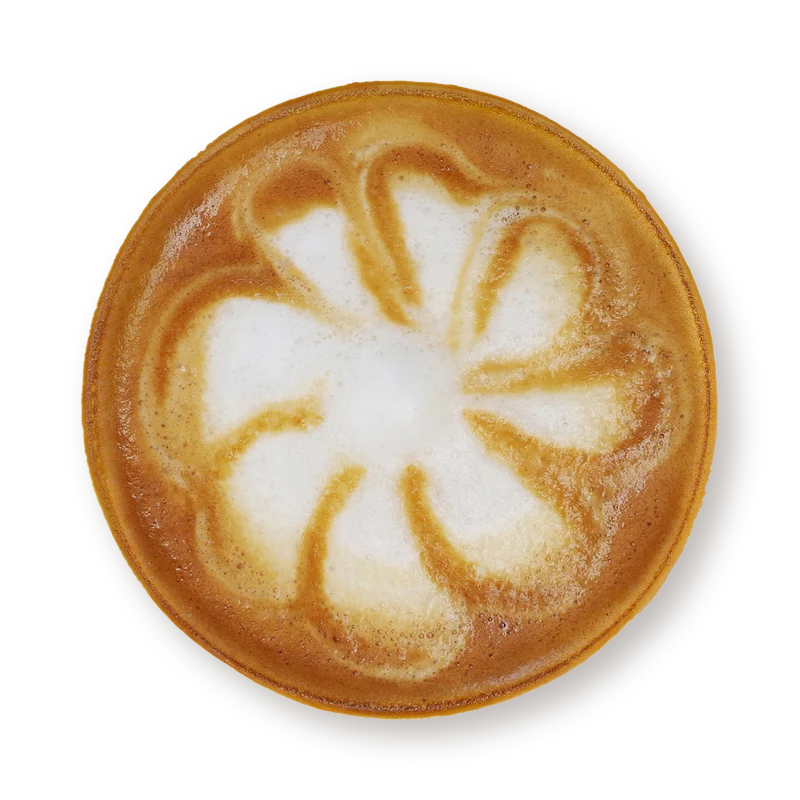
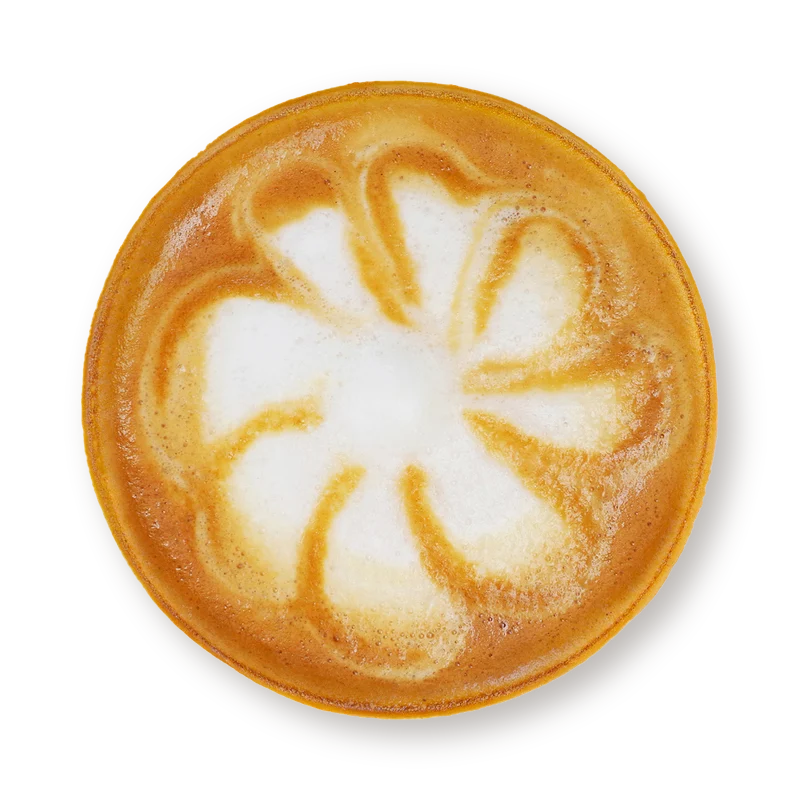
Menu photos: top view only, brighter coffee
- New true top-view shots for pain au chocolat, flan and baguette
- Almond croissant and ciabatta had no top-view photo: hidden (kept in DB)
- Coffee and drink photos brightened (midtone lift + more vibrant colour)

Claude-Session: https://claude.ai/code/session_01P9HWydCEnaaoF8wG5C8DrE

Changed region(s): [[0.0938, 0.0938, 0.9062, 0.9062], [0.4062, 0.5938, 0.4375, 0.625]]

diff --git a/frontend/src/data/menu.js b/frontend/src/data/menu.js
@@ -103,8 +103,8 @@ const rows = [
 // Items with a matching top-view photo (public/images/topview). Everything else stays in the
 // data but is hidden from the menu - not deleted, so it can come back later.
 export const TOPVIEW = new Set([
-  'VIE001', 'VIE006', 'VIE007', 'COO001', 'MUF001', 'BRD001', 'VIE002', 'VIE011',
-  'BRD002', 'BRD003', 'COL001', 'COL011', 'HOT001', 'HOT002', 'HOT003', 'HOT004',
+  'VIE001', 'VIE006', 'VIE007', 'COO001', 'MUF001', 'BRD001', 'VIE011',
+  'BRD003', 'COL001', 'COL011', 'HOT001', 'HOT002', 'HOT003', 'HOT004',
   'HOT005', 'HOT006', 'HOT007', 'HOT008', 'HOT009', 'HOT010', 'HOT011', 'HOT013',
   'HOT014', 'HOT015', 'HOT016', 'IND007', 'SAL001', 'SAL003', 'SAN002', 'SAN005',
   'SMO002',
